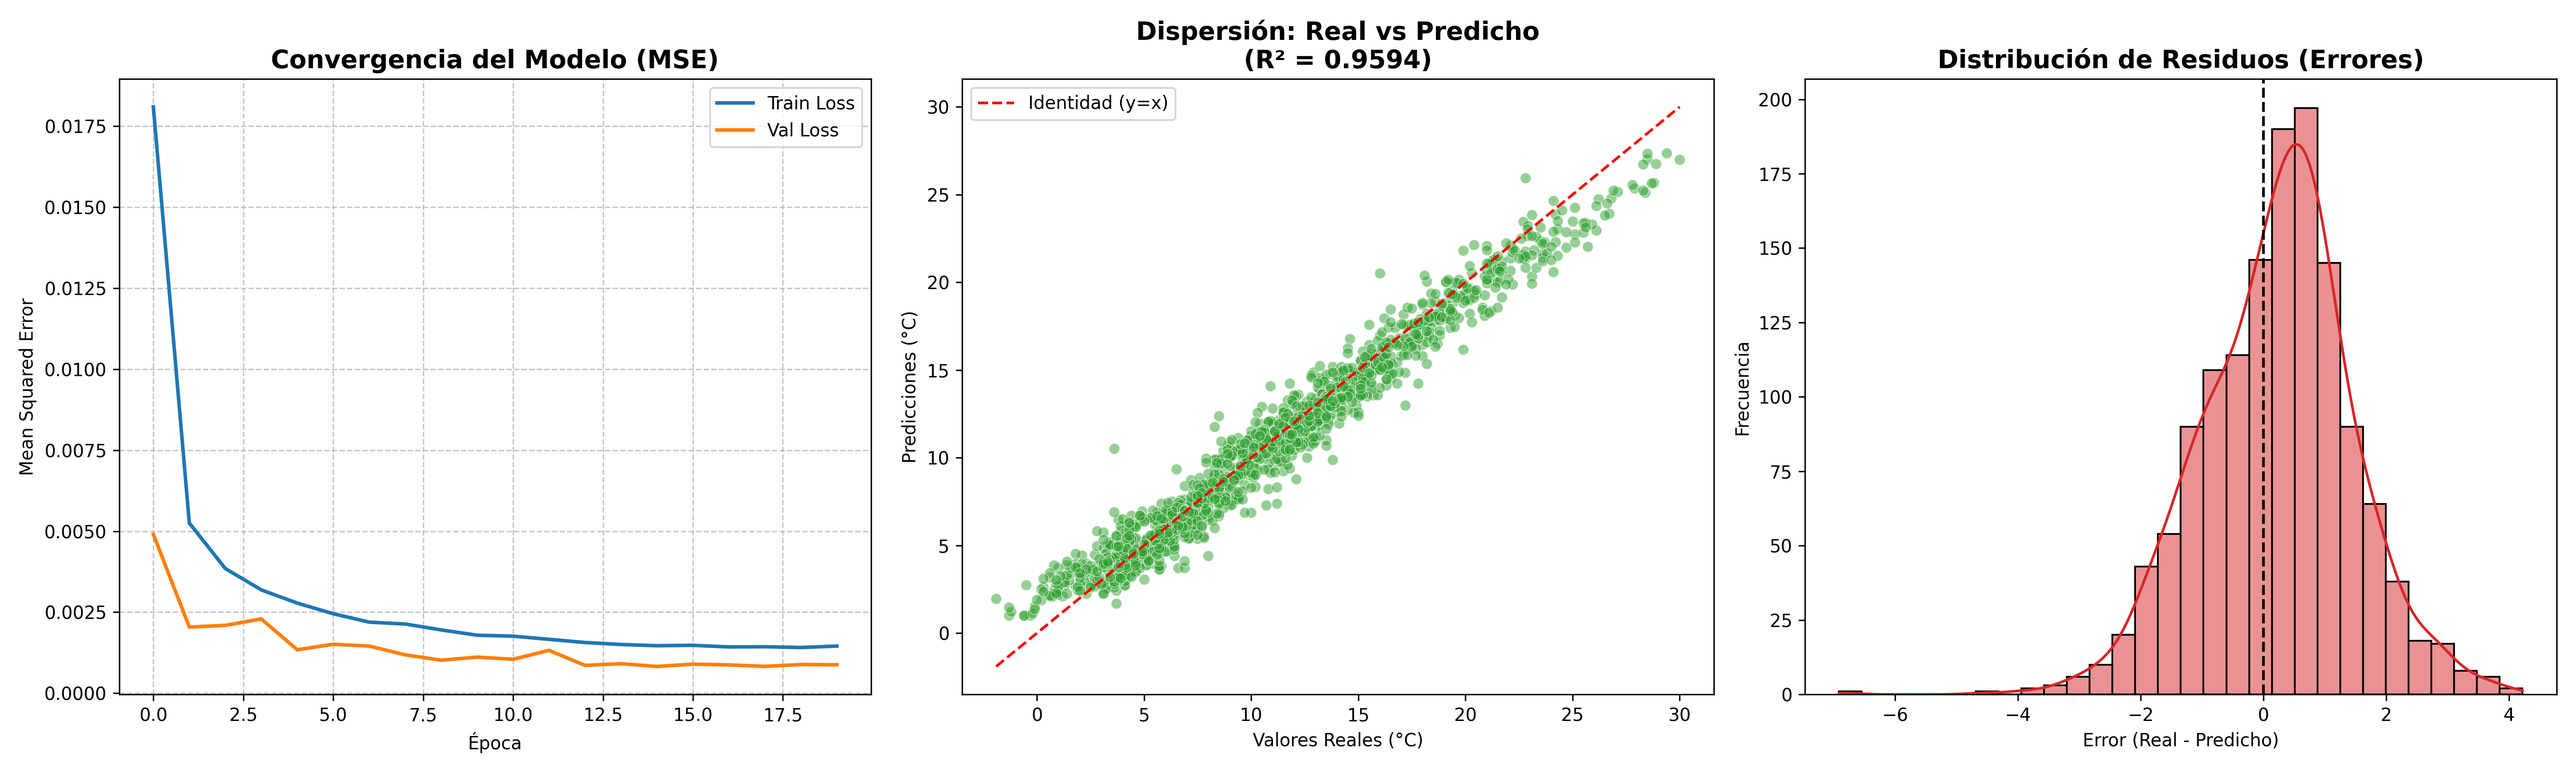
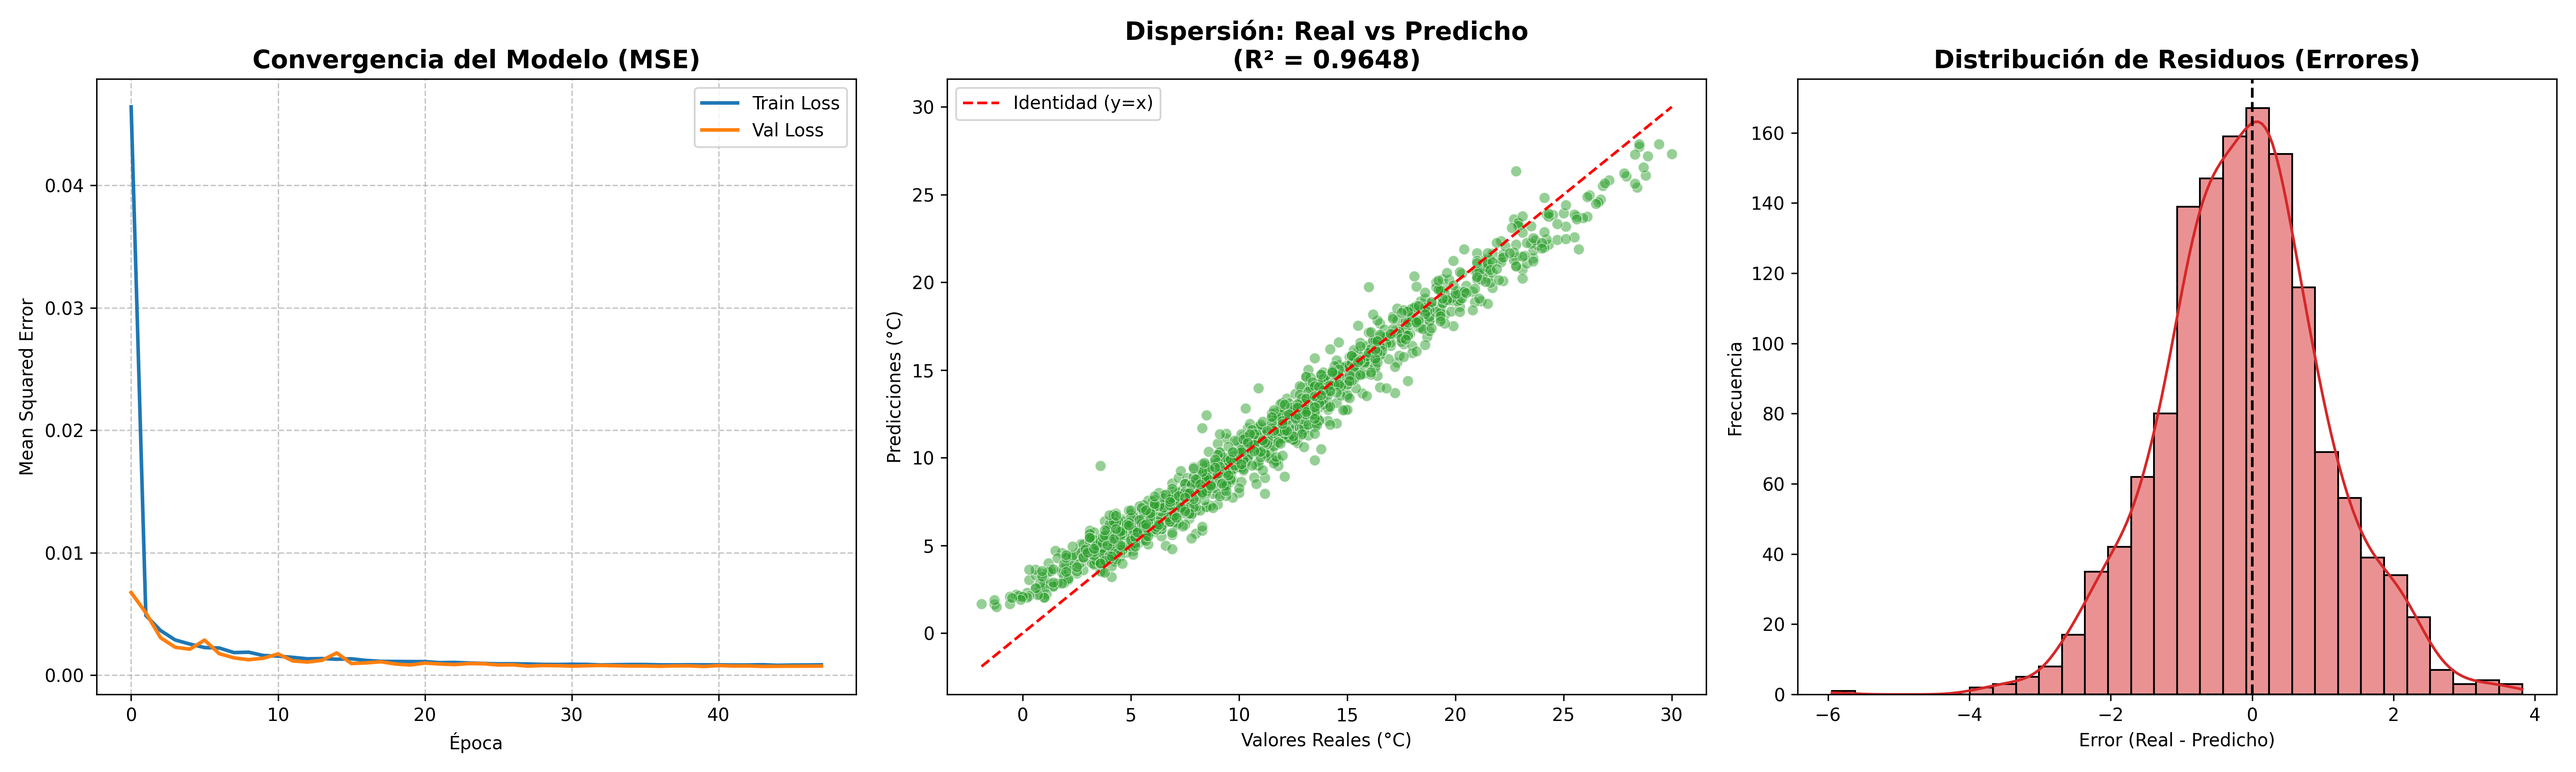
Modelo con varios entrenamientos

diff --git a/gru_aq_v1.py b/gru_aq_v1.py
@@ -7,7 +7,7 @@ import tensorflow as tf
 from tensorflow import keras
 from tensorflow.keras.layers import Input, GRU, Dense, Dropout
 from tensorflow.keras.models import Model, Sequential
-from tensorflow.keras.callbacks import EarlyStopping, ReduceLROnPlateau
+from tensorflow.keras.callbacks import EarlyStopping, ReduceLROnPlateau, ModelCheckpoint
 
 import matplotlib.pyplot as plt
 from sklearn.preprocessing import StandardScaler, MinMaxScaler
@@ -115,25 +115,29 @@ print(f"FORMA DE y: {y_train.shape}")  # (n_samples)
 # 5. CONSTRUCCIÓN DEL MODELO GRU
 model = Sequential([Input(shape=(sequence_length, len(features))),
                     GRU(32, activation='tanh', return_sequences=False),
-                    Dropout(0.2), #20% de dropout para evitar overfitting
+                    Dropout(0.1), #20% de dropout para evitar overfitting
+                    #Dense(32, activation='relu'), # Se aumenta la densidad para V2
                     Dense(16, activation='relu'),
+                    Dense(8, activation='relu'), # Se añade una capa adicional para V3 para limpiar la salida
                     Dense(1)  # Capa de salida para regresión
                     ])
 
-model.compile(optimizer='adam', loss='mse', metrics=['mae'])
+optimizer = keras.optimizers.Adam(learning_rate=0.001)
+model.compile(optimizer=optimizer, loss='mse', metrics=['mae'])
 
 model.summary()
 
 # 6. ENTRENAMIENTO DEL MODELO
-early_stopping = EarlyStopping(monitor='val_loss', patience=5, restore_best_weights=True, verbose=1)
-reduce_lr = ReduceLROnPlateau(monitor='val_loss', factor=0.2, patience=3 , min_lr=1e-6, verbose=1)  
+early_stopping = EarlyStopping(monitor='val_loss', patience=8, restore_best_weights=True, verbose=1)
+reduce_lr = ReduceLROnPlateau(monitor='val_loss', factor=0.5, patience=4 , min_lr=1e-6, verbose=1) 
+checkpoint = keras.callbacks.ModelCheckpoint('best_gru_aq_model.keras', monitor='val_loss', save_best_only=True, verbose=1)
 
 print("INICIANDO EL ENTRENAMIENTO...")
 history = model.fit(X_train, y_train, 
-                    epochs=50, 
+                    epochs=70, 
                     batch_size=32, 
                     validation_data=(X_val, y_val), 
-                    callbacks=[early_stopping, reduce_lr],
+                    callbacks=[early_stopping, reduce_lr, checkpoint],
                     verbose=1)
 
 #model.save('gru_aq_model.h5')
@@ -194,6 +198,9 @@ plt.ylabel('Mean Squared Error')
 plt.legend()
 plt.grid(True, linestyle='--', alpha=0.7)
 
+# Si training_loss >> validation_loss, es posible que el modelo esté subentrenado (underfitting).
+# Si training_loss << validation_loss, es posible que el modelo esté sobreentrenado (overfitting).
+
 # --- 8.2 GRÁFICA DE DISPERSIÓN Y REGRESIÓN ---
 plt.subplot(1, 3, 2)
 sns.scatterplot(x=y_true_rescaled, y=y_pred_rescaled, alpha=0.5, color='#2ca02c')
@@ -234,7 +241,7 @@ plt.legend(loc='upper right')
 plt.grid(True, alpha=0.3)
 
 # Guardamos en tu nueva carpeta de gráficas
-plt.savefig(f'{output_folder}/comparativa_temporal_lineas.png', dpi=300, bbox_inches='tight')
+plt.savefig(f'{output_folder}/temp_real_vs_pred_v1.png', dpi=300, bbox_inches='tight')
 plt.show()
 
 # Instrucción para obtener el número de parámetros
